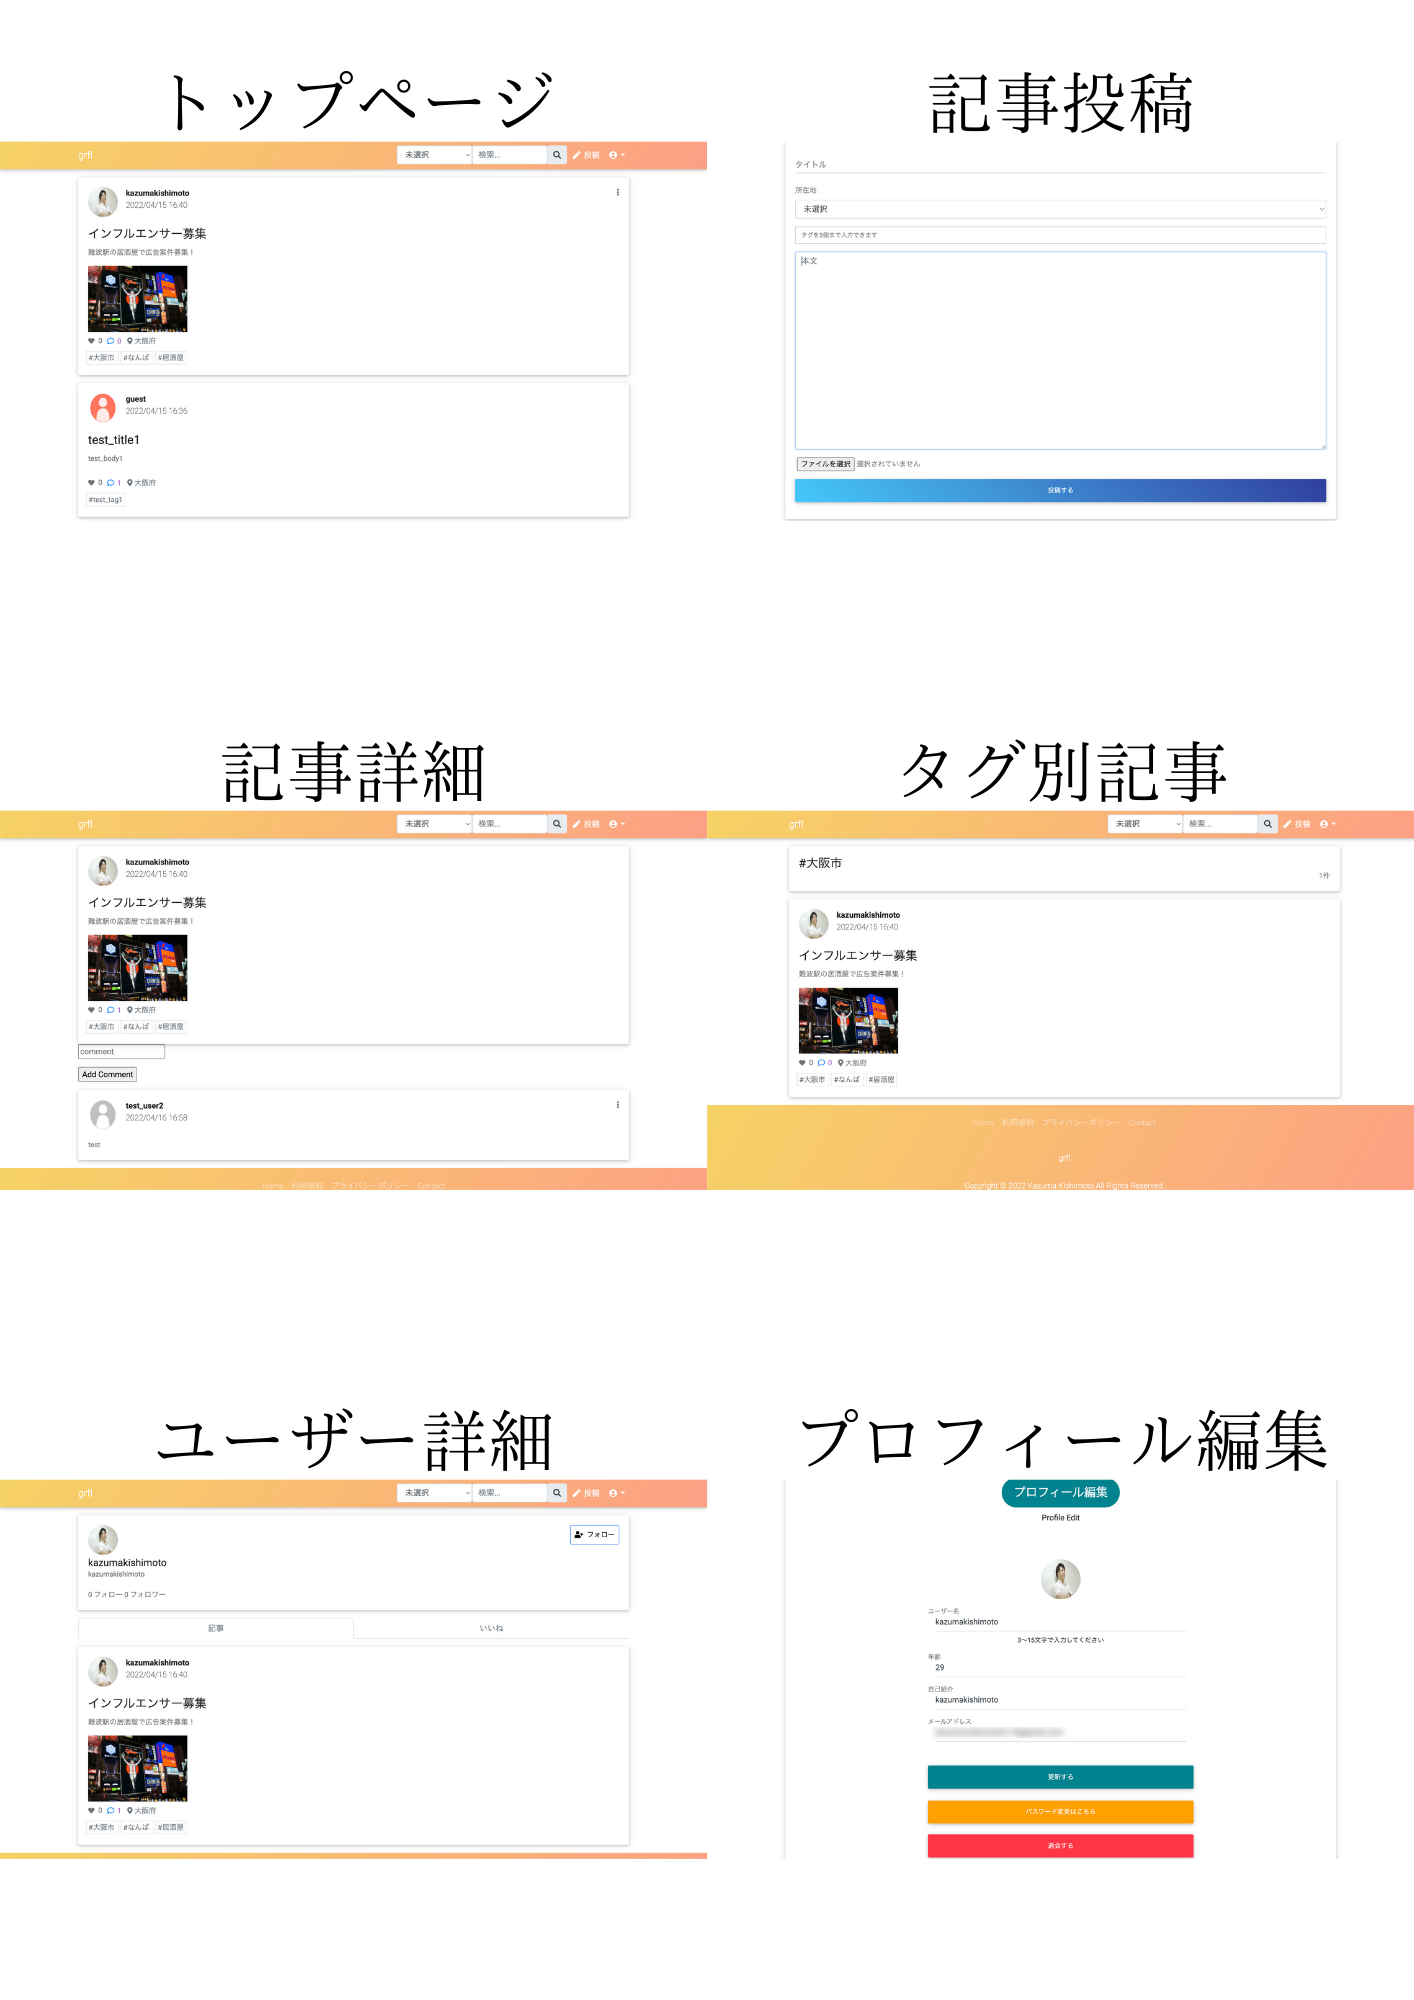
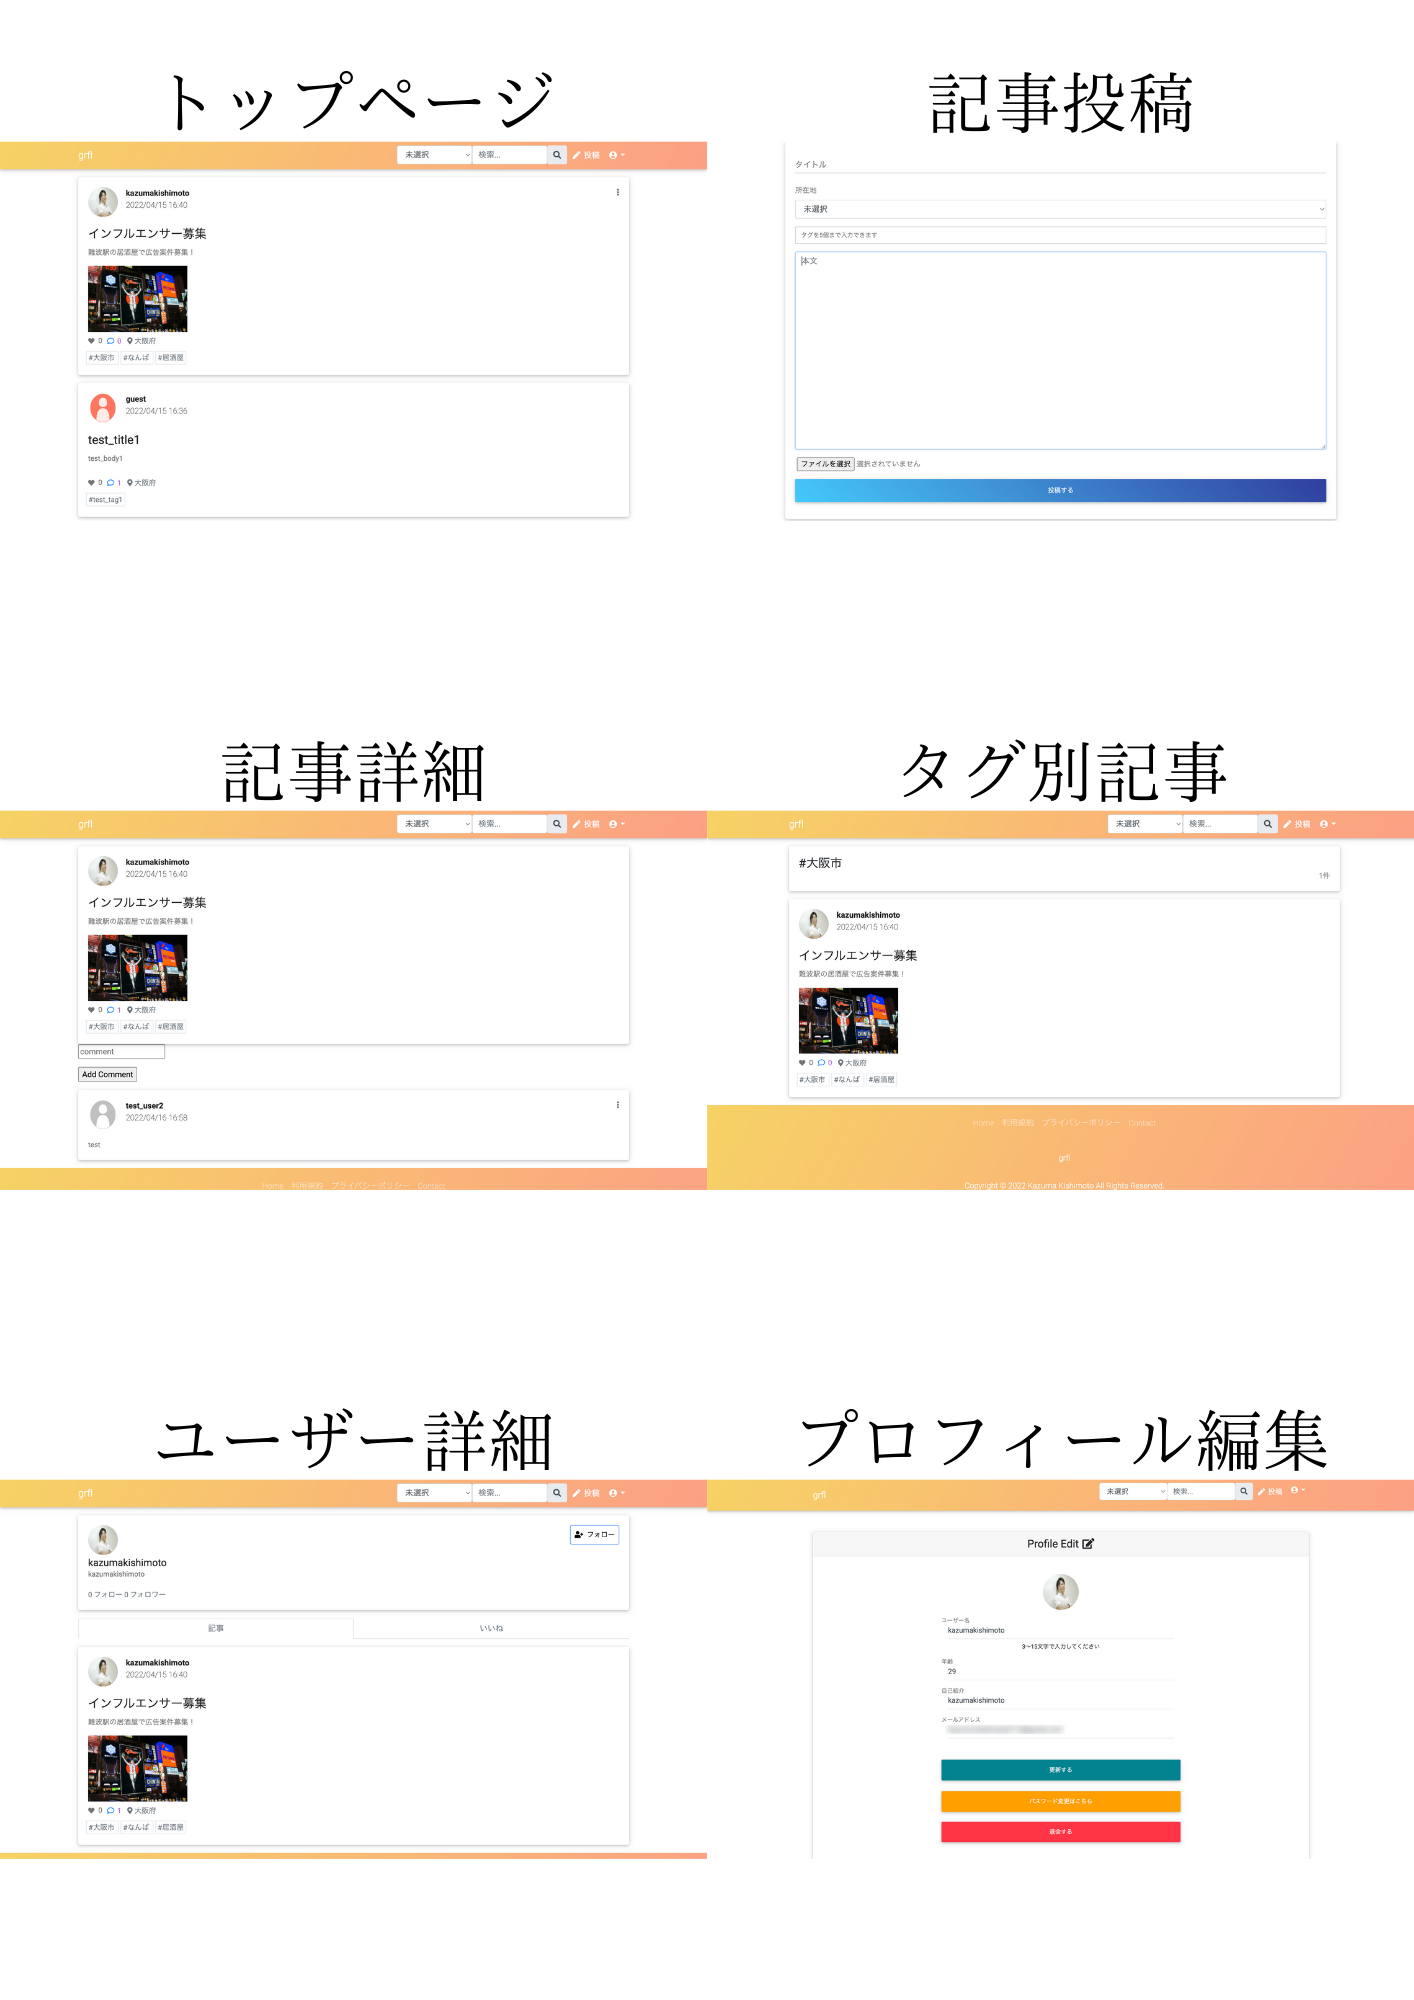
fix profile #38

Changed region(s): [[0.4979, 0.713, 1.0, 0.806], [0.6535, 0.806, 0.8713, 0.93]]

diff --git a/src/resources/views/users/edit.blade.php b/src/resources/views/users/edit.blade.php
@@ -6,9 +6,8 @@
 @include('nav')
 <div class="container">
     <div class="card mt-5">
-        <div class="card-body text-center">
-            <h2 class='h4 card-title text-center mt-5 mb-1'><span class="bg cyan darken-3 text-white py-3 px-4 rounded-pill">プロフィール編集</span></h2>
-            <p class="mt-4">Profile Edit</p>
+        <div class="card-body text-center p-0">
+            <h2 class='h4 card-header text-center mb-1'><span class="py-3 px-4">Profile Edit<i class="fas fa-edit ml-2"></i></span></h2>
         </div>
         @if (Auth::id() == config('user.guest_user.id'))
         <div class="card-body text-center">

diff --git a/README.md b/README.md
@@ -17,7 +17,7 @@
 - ダイレクトメッセージで連絡できる
 
 ## 使用画面のイメージ
-![demo](https://user-images.githubusercontent.com/68370181/163667709-389bd6f5-90a6-42be-a396-04776d597644.png)
+![demo](https://user-images.githubusercontent.com/68370181/169194020-4e4f251c-2ec2-4934-bbe7-c815829d2dcf.png)
 
 
 # 2.使用技術
